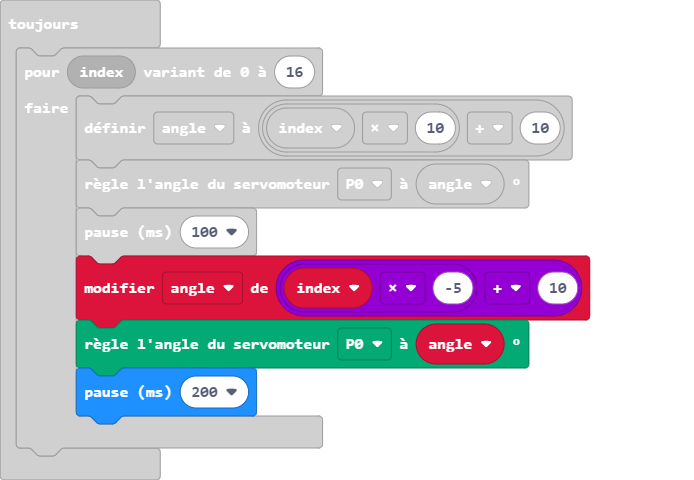
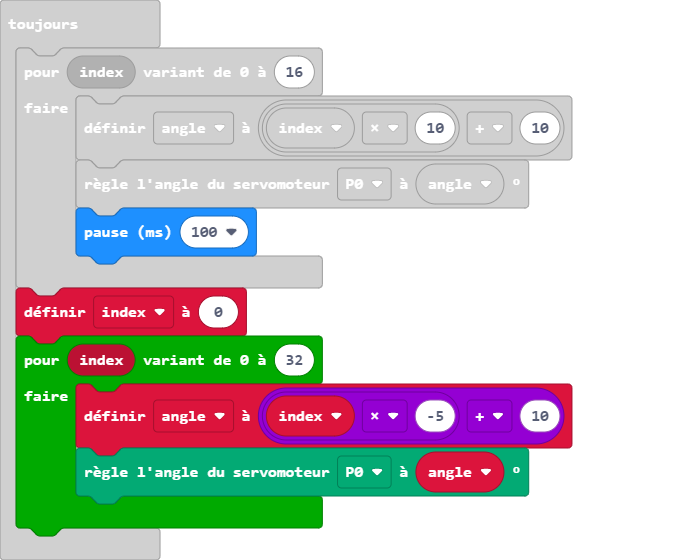
Mise à jour main.blocks, main.ts

diff --git a/main.ts b/main.ts
@@ -1,3 +1,4 @@
+let index = 0
 let angle = 0
 servos.P0.setRange(10, 170)
 basic.forever(function () {
@@ -5,8 +6,10 @@ basic.forever(function () {
         angle = index * 10 + 10
         servos.P0.setAngle(angle)
         basic.pause(100)
-        angle += index * -5 + 10
+    }
+    index = 0
+    for (let index = 0; index <= 32; index++) {
+        angle = index * -5 + 10
         servos.P0.setAngle(angle)
-        basic.pause(200)
     }
 })
